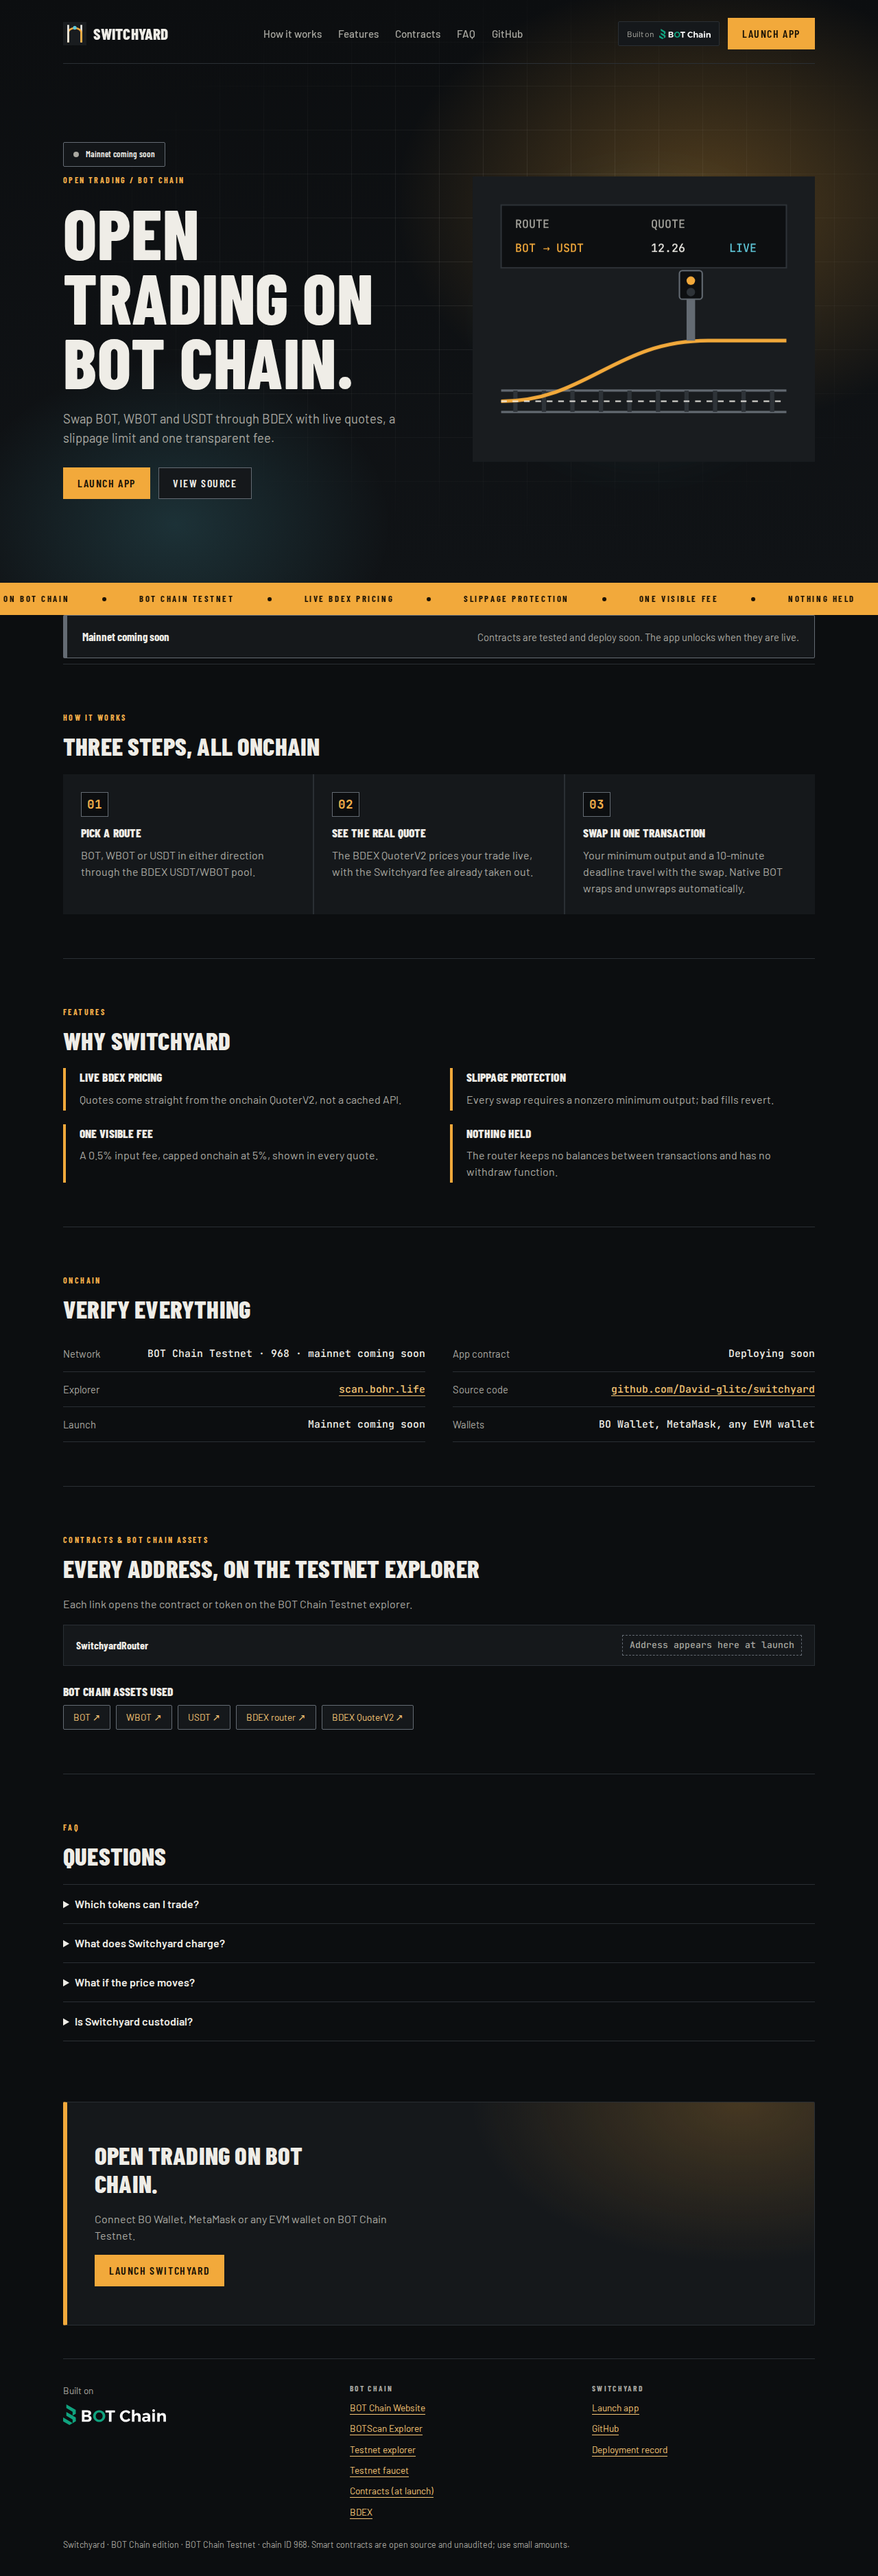
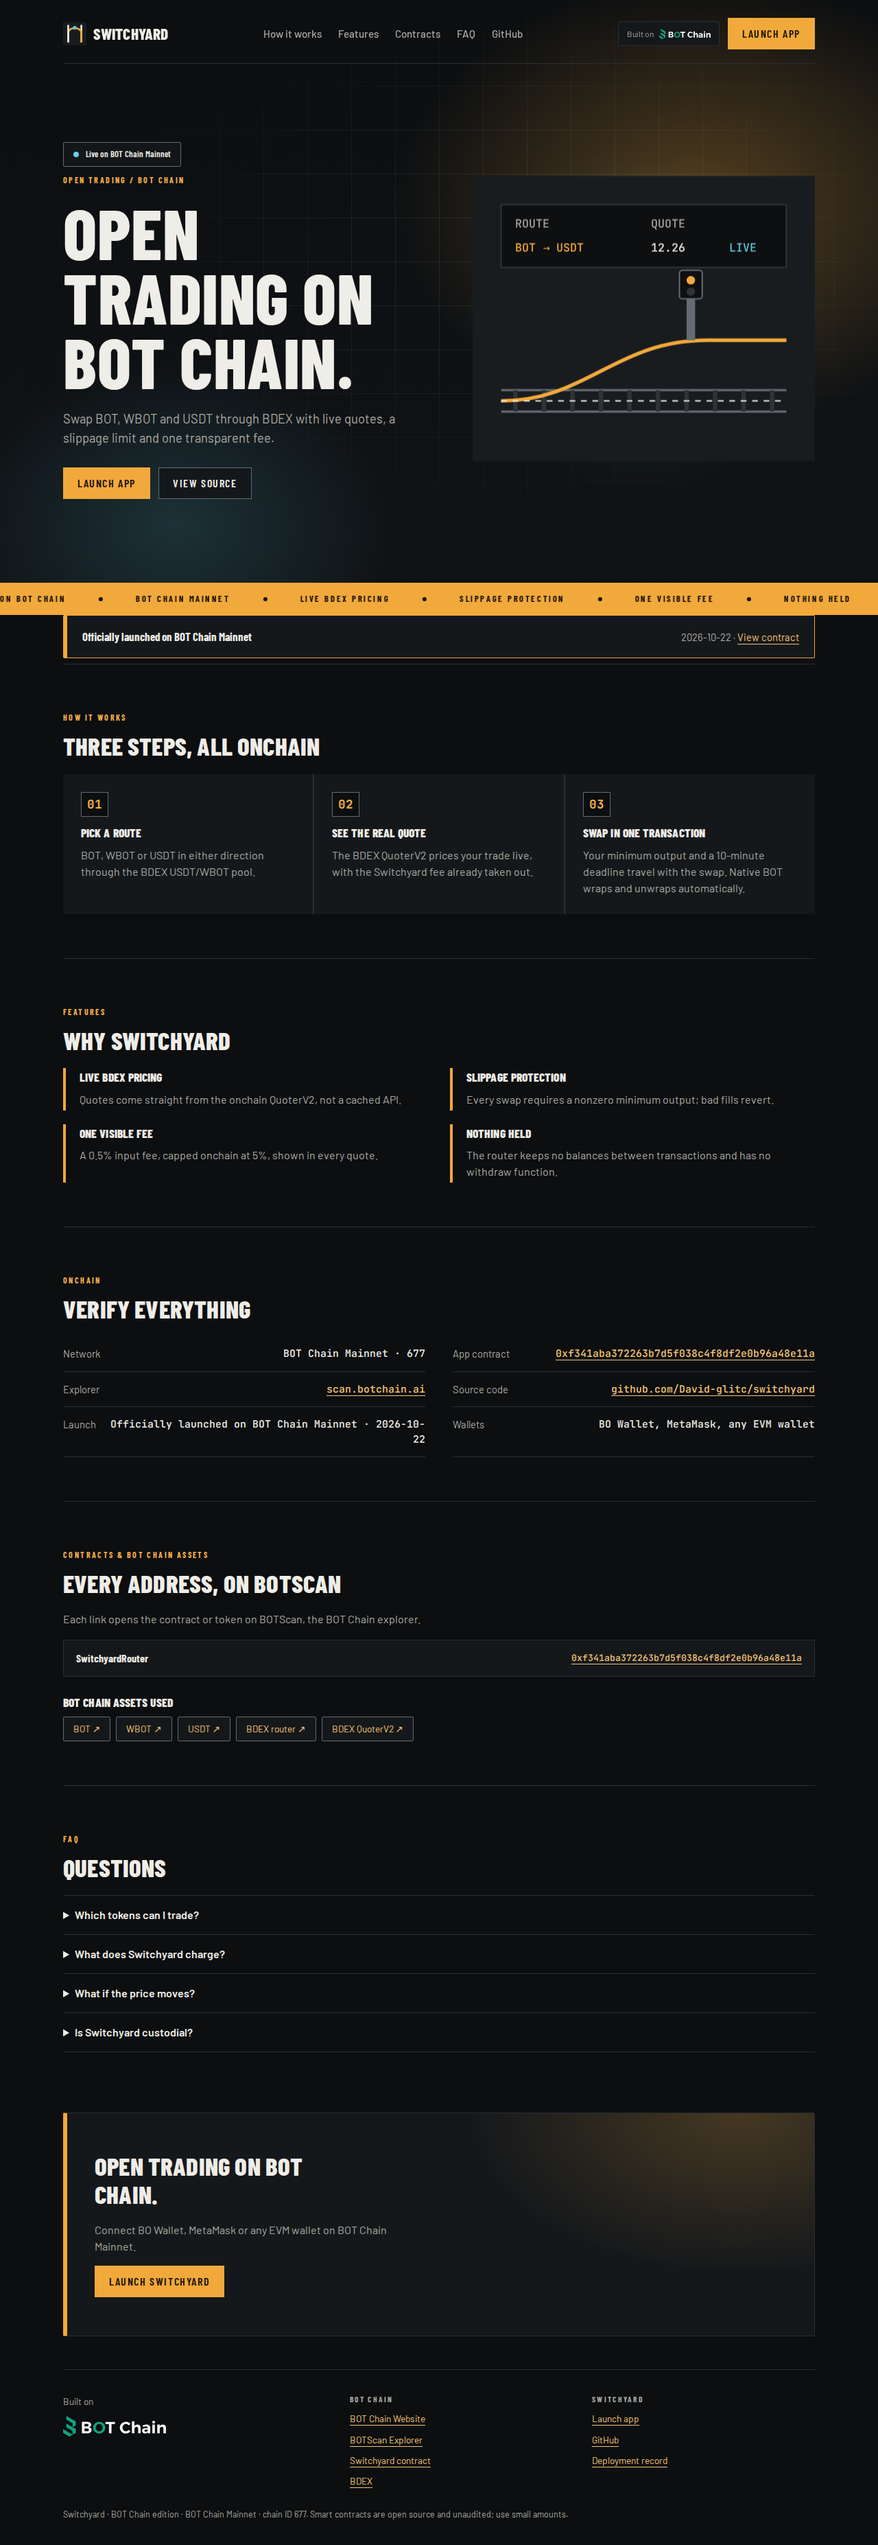
Officially launched on BOT Chain Mainnet

diff --git a/README.md b/README.md
@@ -2,7 +2,7 @@
 
 **Open trading on BOT Chain.** Swap BOT, WBOT and USDT through BDEX with live quotes, a slippage limit and one transparent fee.
 
-**Status:** contracts are tested on a BOT Chain mainnet fork; the mainnet deployment is pending.
+**Officially launched on BOT Chain Mainnet** on 2026-10-22.
 
 - Website and app: https://switchyardbot.vercel.app (app at [`/app/`](https://switchyardbot.vercel.app/app/))
 - Network: BOT Chain mainnet, chain ID 677 · [BOT Chain](https://www.botchain.ai/) · [BOTScan](https://scan.botchain.ai/)
@@ -26,9 +26,9 @@
 
 | Contract | BOT Chain mainnet |
 |---|---|
-| `SwitchyardRouter` | Pending mainnet deployment |
+| `SwitchyardRouter` | [`0xf341aba372263b7d5f038c4f8df2e0b96a48e11a`](https://scan.botchain.ai/address/0xf341aba372263b7d5f038c4f8df2e0b96a48e11a) |
 
-BOT Chain infrastructure used: USDT `0x75edC9335175Fc0552D51D48439F229c10420fe3`, WBOT `0xD5452816194a3784dBa983426cCe7c122F4abd30`, BDEX router `0x07032d47A1b9f8460cBeE9dC17c1d3E438693929`, BDEX QuoterV2 `0x034A705b36067cff99ABf5C662Be881cBd8d0176`.
+BOT Chain infrastructure used: USDT `0xaBabc7Ddc03e501d190C676BF3d92ef0e6e87a3C`, WBOT `0xD5452816194a3784dBa983426cCe7c122F4abd30`, BDEX router `0x07032d47A1b9f8460cBeE9dC17c1d3E438693929`, BDEX QuoterV2 `0x034A705b36067cff99ABf5C662Be881cBd8d0176`.
 
 Source: [`contracts/src`](contracts/src). Tests: [`contracts/test`](contracts/test). The contracts are unaudited; use small amounts.
 
